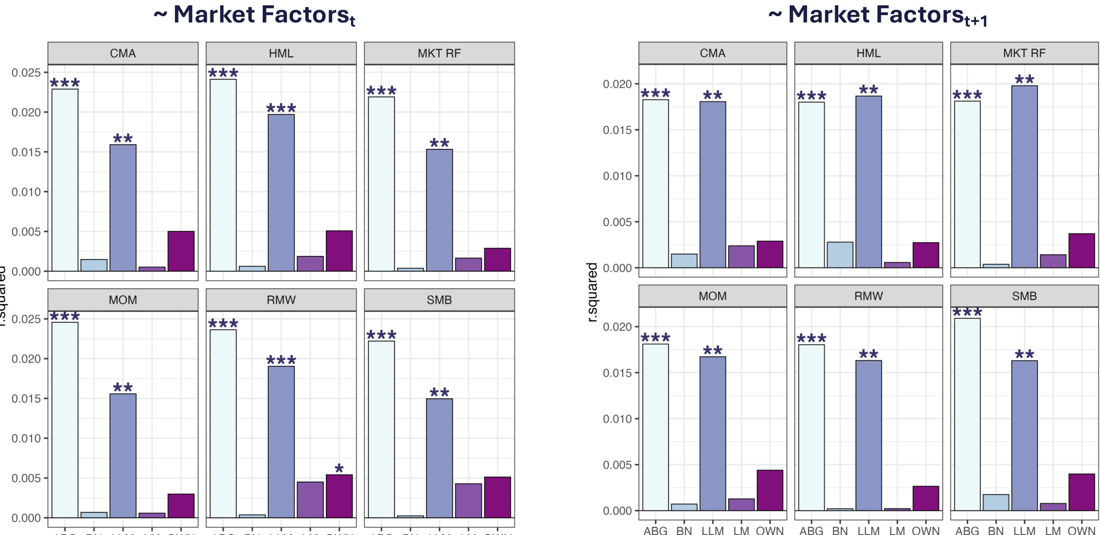
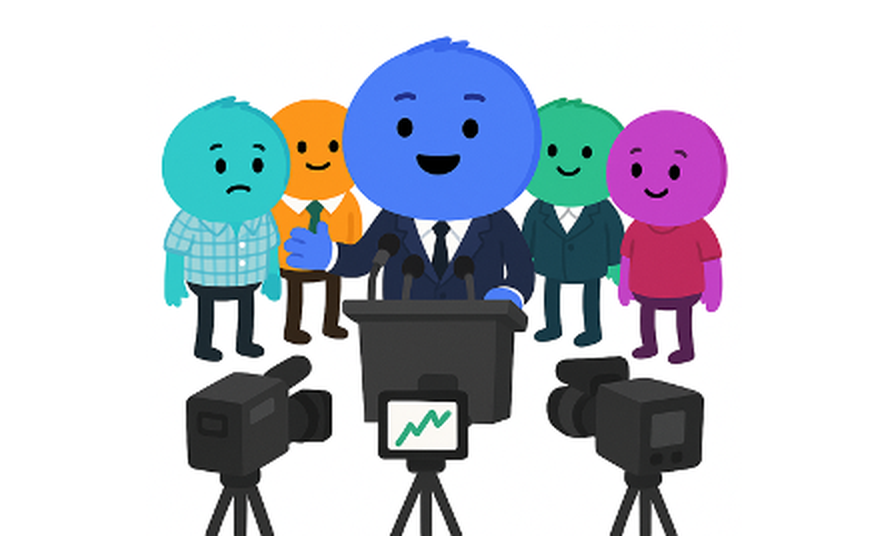
central-bank-tone: use the press-conference illustration (background removed in the post)
Claude-Session: https://claude.ai/code/session_01CPBw6ygvtZ74bj64QgVCRj

diff --git a/_site/posts/central-bank-tone/index.html b/_site/posts/central-bank-tone/index.html
@@ -30,7 +30,7 @@
         <a class="back" href="../../index.html#blog">← All posts</a>
         <figure class="visual cover" data-visual>
           <!-- Custom animation slot: replace the <img> below (or mount a canvas into this figure). -->
-          <img src="featured-transparent.png" alt="Bar charts of R-squared for six factors and five sentiment measures, for speeches by the Chair" />
+          <img src="featured-transparent.png" alt="Illustration of a central bank press conference: a speaker at a podium, journalists and cameras" />
           <figcaption>publication · NLP · finance</figcaption>
         </figure>
         <div class="slides"><p class="dl-title">Slides</p><div class="slides-frame"><iframe src="afmlc2025.pdf#view=Fit&amp;toolbar=0&amp;navpanes=0" title="Slides: Does central bank tone matter for Fama-French factor returns?" loading="lazy"></iframe></div><a class="dl" href="afmlc2025.pdf" target="_blank" rel="noopener"><svg viewBox="0 0 24 24" width="16" height="16" fill="none" stroke="currentColor" stroke-width="2" stroke-linecap="round" stroke-linejoin="round" aria-hidden="true"><path d="M10 14L21 3M21 3h-7M21 3v7M19 14v5a2 2 0 0 1-2 2H5a2 2 0 0 1-2-2V7a2 2 0 0 1 2-2h5"/></svg><span>Open slides full screen</span></a></div>
